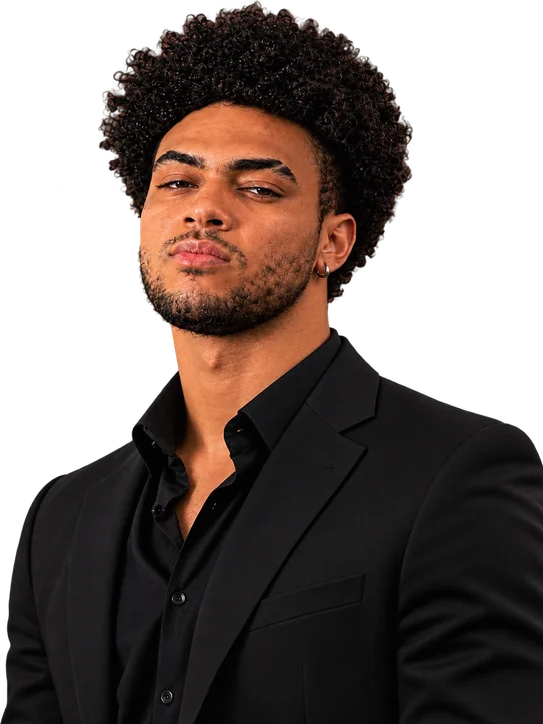
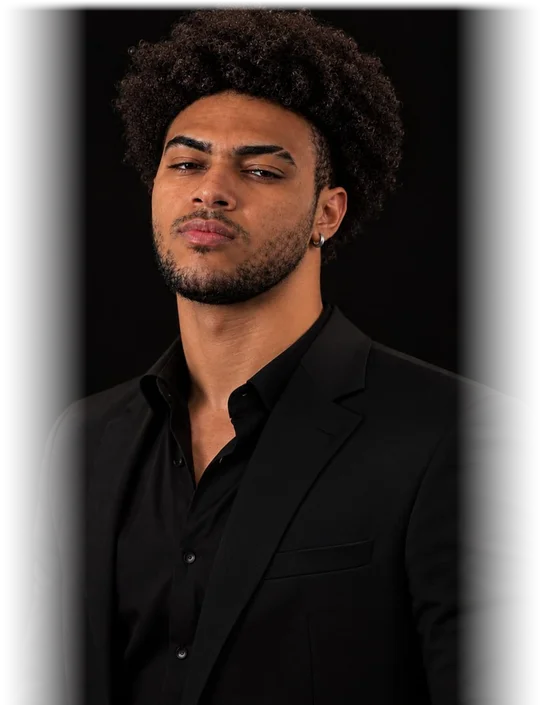
Atualiza portfólio: novas capas dos projetos, nova foto da hero e animações de fundo
Claude-Session: https://claude.ai/code/session_01DwyaFXNrkX4jACqAvLotH1

diff --git a/index.html b/index.html
@@ -93,7 +93,7 @@ button{font:inherit;color:inherit;background:none;border:0;cursor:pointer}
   -webkit-text-stroke:1.5px rgba(242,238,232,.16);user-select:none}
 .hero__giant b{font-weight:400;color:rgba(242,238,232,.05);-webkit-text-stroke:0}
 
-.hero__portrait{position:absolute;right:clamp(0px,4vw,80px);bottom:0;height:min(94vh,1000px);aspect-ratio:1086/1448;z-index:1;will-change:transform}
+.hero__portrait{position:absolute;right:clamp(0px,4vw,80px);bottom:0;height:min(94vh,1000px);aspect-ratio:1086/1411;z-index:1;will-change:transform}
 .hero__portrait img{width:100%;height:100%;object-fit:contain;object-position:bottom;display:block;
   filter:contrast(1.04) saturate(.95) drop-shadow(0 30px 80px rgba(0,0,0,.6))}
 .hero__portrait img{-webkit-mask-image:linear-gradient(#000 76%,transparent 99%);mask-image:linear-gradient(#000 76%,transparent 99%)}
@@ -230,85 +230,10 @@ button{font:inherit;color:inherit;background:none;border:0;cursor:pointer}
 .work__track,.work__progress{position:relative;z-index:1}
 .work__progress{position:absolute}
 @media (prefers-reduced-motion:reduce){.work__aurora{animation:none}}
-/* ---------- capas ---------- */
-.art{display:block}
-.art svg{position:absolute;inset:0;width:100%;height:100%}
-
-/* 01 Lumina */
-.c-lumina{background:radial-gradient(120% 90% at 70% 10%,#ffffff 0%,#eaf4fb 42%,#cfe3f1 100%)}
-.c-lumina .ring{position:absolute;width:68%;aspect-ratio:1;left:50%;top:58%;transform:translate(-50%,-50%);border-radius:50%;
-  background:conic-gradient(from 200deg,rgba(80,170,230,.0),rgba(80,170,230,.55),rgba(255,255,255,.9),rgba(80,170,230,.0));filter:blur(28px);opacity:.75}
-.c-lumina .smile{position:absolute;left:50%;top:56%;transform:translate(-50%,-50%);width:58%}
-.c-lumina .copy{position:absolute;left:8%;top:12%;right:8%;color:#0f2a3d}
-.c-lumina .brand{font-size:12px;font-weight:700;letter-spacing:.32em;text-transform:uppercase;color:#3a7fae}
-.c-lumina h4{font-family:var(--serif);font-weight:400;font-size:clamp(28px,3vw,48px);line-height:1.02;margin-top:12px;max-width:12ch}
-.c-lumina h4 em{color:#2d8fd5}
-.c-lumina .pill{position:absolute;left:8%;bottom:9%;display:flex;gap:8px}
-.c-lumina .pill span{font-size:11px;font-weight:700;padding:7px 12px;border-radius:100px;background:#fff;color:#2b6e9b;box-shadow:0 6px 20px rgba(43,110,155,.15)}
-
-/* 02 Tênis drop */
-.c-drop{background:#c8102e;color:#fff;overflow:hidden}
-.c-drop::before{content:"";position:absolute;inset:0;background:repeating-linear-gradient(-18deg,transparent 0 22px,rgba(0,0,0,.08) 22px 24px)}
-.c-drop .big{position:absolute;left:-2%;top:6%;font-family:var(--display);font-size:clamp(110px,13vw,210px);line-height:.82;letter-spacing:-.01em;text-transform:uppercase;color:transparent;-webkit-text-stroke:2px rgba(255,255,255,.9)}
-.c-drop .big b{display:block;font-weight:400;color:#fff;-webkit-text-stroke:0}
-.c-drop .speed{position:absolute;right:6%;top:50%;transform:translateY(-50%);width:44%}
-.c-drop .timer{position:absolute;left:6%;bottom:8%;display:flex;gap:8px;font-family:var(--display);font-size:28px}
-.c-drop .timer span{background:#0a0a0a;padding:8px 10px;border-radius:8px;min-width:52px;text-align:center}
-.c-drop .stock{position:absolute;right:6%;bottom:9%;font-size:11px;font-weight:800;letter-spacing:.2em;background:#fff;color:#c8102e;padding:8px 12px;border-radius:4px}
-
-/* 03 ASTRO */
-.c-astro{background:radial-gradient(90% 80% at 75% 35%,#3a2d22 0%,#1e1a16 55%,#121010 100%);color:#f5f4f0;font-family:'JetBrains Mono',ui-monospace,monospace}
-.c-astro .hud{position:absolute;inset:7%;border:1px solid rgba(255,106,40,.35)}
-.c-astro .hud::before,.c-astro .hud::after{content:"";position:absolute;width:22px;height:22px;border:2px solid #ff6a28}
-.c-astro .hud::before{left:-2px;top:-2px;border-right:0;border-bottom:0}
-.c-astro .hud::after{right:-2px;bottom:-2px;border-left:0;border-top:0}
-.c-astro .meta{position:absolute;left:11%;top:12%;font-size:11px;letter-spacing:.18em;color:#ff6a28}
-.c-astro h4{position:absolute;left:11%;bottom:14%;font-family:var(--display);font-weight:400;font-size:clamp(52px,5.6vw,92px);line-height:.86;text-transform:uppercase}
-.c-astro h4 span{display:block;font-family:'JetBrains Mono',monospace;font-size:13px;letter-spacing:.3em;color:#c2bdb4;margin-bottom:12px}
-.c-astro .temp{position:absolute;right:11%;top:12%;text-align:right;font-size:11px;letter-spacing:.14em;color:#857f75}
-.c-astro .temp b{display:block;font-family:var(--display);font-weight:400;font-size:44px;color:#f5f4f0;letter-spacing:0}
-.c-astro .scope{position:absolute;right:12%;top:34%;width:28%}
-.c-astro .swatches{position:absolute;right:11%;bottom:14%;display:flex;gap:8px}
-.c-astro .swatches i{width:12px;height:12px;border-radius:50%;border:1px solid rgba(255,255,255,.3)}
-
-/* 04 Solenne */
-.c-solenne{background:linear-gradient(160deg,#efe7dc 0%,#e2d6c5 60%,#d4c4ae 100%);color:#2c2620}
-.c-solenne .house{position:absolute;right:-4%;bottom:0;width:78%}
-.c-solenne .sun{position:absolute;right:16%;top:12%;width:18%;aspect-ratio:1;border-radius:50%;background:radial-gradient(circle,#f6c99a 0%,rgba(246,201,154,0) 70%)}
-.c-solenne .copy{position:absolute;left:8%;top:11%}
-.c-solenne .brand{font-size:12px;letter-spacing:.38em;text-transform:uppercase;font-weight:600;color:#8a755d}
-.c-solenne h4{font-family:var(--serif);font-weight:400;font-size:clamp(30px,3.2vw,52px);line-height:1;margin-top:14px;max-width:10ch}
-.c-solenne h4 em{color:#9b6b43}
-
-/* 05 Brutus */
-.c-brutus{background:radial-gradient(80% 60% at 50% 110%,#ff5a1a 0%,#a52a0c 35%,#2a0d06 70%,#0d0806 100%);color:#fff}
-.c-brutus .sparks{position:absolute;inset:0}
-.c-brutus .copy{position:absolute;inset:0;display:flex;flex-direction:column;align-items:center;justify-content:center;text-align:center}
-.c-brutus .brand{font-family:var(--display);font-size:clamp(84px,10vw,160px);line-height:.85;letter-spacing:.02em;text-transform:uppercase;text-shadow:0 10px 50px rgba(255,90,26,.5)}
-.c-brutus .brand small{display:block;font-family:var(--sans);font-size:13px;font-weight:800;letter-spacing:.6em;color:#ffb37a;text-shadow:none;margin-top:10px}
-.c-brutus h4{font-family:var(--serif);font-style:italic;font-weight:400;font-size:clamp(20px,2vw,30px);margin-top:18px;color:#ffe2cc}
-
-/* 06 Maison Aura */
-.c-aura{background:linear-gradient(170deg,#f6e7e1 0%,#edd5cb 55%,#e2c1b3 100%);color:#3d2a24}
-.c-aura .arch{position:absolute;right:9%;bottom:0;width:38%;height:78%;border-radius:999px 999px 0 0;background:linear-gradient(180deg,#c9a27e,#8f6248);overflow:hidden}
-.c-aura .arch::after{content:"";position:absolute;inset:10px 10px 0;border-radius:999px 999px 0 0;border:1px solid rgba(255,240,225,.6);border-bottom:0}
-.c-aura .arch svg{position:absolute;inset:0;height:100%;width:100%}
-.c-aura .copy{position:absolute;left:8%;top:12%}
-.c-aura .brand{font-family:var(--serif);font-size:clamp(40px,4.2vw,68px);line-height:.9}
-.c-aura .brand b{font-family:var(--sans);font-weight:700;font-size:12px;letter-spacing:.44em;display:block;color:#a0735a;margin-bottom:10px}
-.c-aura .brand em{color:#b3805f}
-.c-aura h4{margin-top:22px;font-size:14px;font-weight:600;line-height:1.5;max-width:22ch;color:#6e5348}
-.c-aura .seal{position:absolute;left:8%;bottom:10%;font-size:11px;font-weight:700;letter-spacing:.2em;text-transform:uppercase;padding:9px 14px;border:1px solid #b3805f;border-radius:100px;color:#8f6248}
-
-/* 07 Porsche */
-.c-porsche{background:linear-gradient(180deg,#1a1b1d 0%,#2a2c30 45%,#121315 100%);color:#fff}
-.c-porsche .stripe{position:absolute;left:0;right:0;top:56%;height:20%;background:#d5001c;transform:skewY(-6deg);box-shadow:0 0 80px rgba(213,0,28,.4)}
-.c-porsche .car{position:absolute;left:50%;top:60%;transform:translate(-50%,-50%) rotate(-6deg);width:74%}
-.c-porsche .copy{position:absolute;left:8%;top:10%;right:8%}
-.c-porsche .brand{font-size:12px;font-weight:700;letter-spacing:.4em;text-transform:uppercase;color:#9aa0a6}
-.c-porsche h4{font-family:var(--display);font-weight:400;font-style:italic;font-size:clamp(34px,3.6vw,58px);line-height:.95;text-transform:uppercase;margin-top:12px;transform:skewX(-6deg)}
-.c-porsche h4 span{color:#d5001c}
-
+/* ---------- capas (imagens) ---------- */
+.proj__cover{aspect-ratio:16/9;flex:none}
+.art--img{position:absolute;inset:0;width:100%;height:100%;object-fit:cover;display:block;background:#111}
+.proj{height:auto;align-self:center}
 /* ---------- responsivo da galeria ---------- */
 @media (max-width:860px){
   .work__pin{height:auto;padding:90px 0 70px}
@@ -316,24 +241,11 @@ button{font:inherit;color:inherit;background:none;border:0;cursor:pointer}
   .work__intro,.work__end{width:100%;padding:0}
   .work__end{padding:20px 0 0}
   .proj{width:100%;height:auto}
-  .proj__cover{flex:none;aspect-ratio:4/3.4}
   .proj__info{grid-template-columns:auto 1fr;padding:16px}
   .proj__open{grid-column:1 / -1;justify-content:center}
   .work__progress{display:none}
   .work__hint{display:none}
   .proj__label{top:auto;bottom:12px;right:12px}
-  .c-drop .timer{font-size:20px;gap:6px;bottom:7%}
-  .c-drop .timer span{min-width:38px;padding:6px 7px}
-  .c-drop .stock{display:none}
-  .c-astro .meta{display:none}
-  .c-astro .temp b{font-size:30px}
-  .c-astro h4{font-size:44px}
-  .c-aura .arch{width:30%;height:62%}
-  .c-aura .brand{font-size:34px}
-  .c-aura h4{max-width:17ch;font-size:13px}
-  .c-aura .seal{display:none}
-  .c-lumina h4,.c-solenne h4{font-size:26px}
-  .c-porsche h4{font-size:30px}
 }
 .no-anim .work__pin{height:auto;padding:100px 0 80px}
 .no-anim .work__track{overflow-x:auto;scroll-snap-type:x mandatory}
@@ -675,7 +587,7 @@ button{font:inherit;color:inherit;background:none;border:0;cursor:pointer}
   <div class="hero__giant" aria-hidden="true">PORT<b>FOLIO</b></div>
 
   <div class="hero__portrait">
-    <img src="img/retrato.webp" srcset="img/retrato-sm.webp 543w, img/retrato.webp 1086w" sizes="(max-width:860px) 92vw, 60vh" alt="Retrato de Wender de terno preto" width="1086" height="1448" fetchpriority="high">
+    <img src="img/retrato.webp" srcset="img/retrato-sm.webp 543w, img/retrato.webp 1086w" sizes="(max-width:860px) 92vw, 60vh" alt="Retrato de Wender de terno preto" width="1086" height="1411" fetchpriority="high">
   </div>
 
   <div class="hero__content">
@@ -740,10 +652,7 @@ button{font:inherit;color:inherit;background:none;border:0;cursor:pointer}
         <div class="work__hint"><i></i>Role para explorar</div>
       </div>
       <a class="proj" href="https://clilica-odontologica.vercel.app/" target="_blank" rel="noopener noreferrer" data-cursor="Abrir" aria-label="Abrir o site Lumina Odontologia em uma nova aba">
-        <div class="proj__cover"><div class="art c-lumina"><div class="ring"></div>
-          <svg class="smile" viewBox="0 0 300 120" style="position:absolute;inset:auto;left:50%;top:60%;width:58%;height:auto;transform:translate(-50%,-50%)"><path d="M20 30 Q150 140 280 30" fill="none" stroke="#ffffff" stroke-width="10" stroke-linecap="round"/><path d="M20 30 Q150 140 280 30" fill="none" stroke="#5db3ea" stroke-width="2" stroke-linecap="round" opacity=".7"/><g fill="#fff" stroke="#bcd9ec" stroke-width="1.2"><rect x="92" y="52" width="22" height="26" rx="8"/><rect x="117" y="58" width="22" height="28" rx="8"/><rect x="142" y="60" width="22" height="28" rx="8"/><rect x="167" y="58" width="22" height="28" rx="8"/><rect x="192" y="52" width="22" height="26" rx="8"/></g><g fill="#fff"><circle cx="250" cy="10" r="3"/><circle cx="262" cy="22" r="1.6"/><circle cx="40" cy="8" r="2"/></g></svg>
-          <div class="copy"><div class="brand">Lumina Odontologia</div><h4>Seu novo sorriso, <em>antes de fazer.</em></h4></div>
-          <div class="pill"><span>Planejamento 3D</span><span>Antes e depois</span></div></div></div>
+        <div class="proj__cover"><img class="art art--img" src="img/capa-lumina.webp" srcset="img/capa-lumina-sm.webp 720w, img/capa-lumina.webp 1280w" sizes="(max-width:860px) 92vw, 44vw" alt="Capa do site Lumina Odontologia" width="1280" height="720" loading="lazy" decoding="async"></div>
         <div class="proj__info">
           <span class="proj__num">01</span>
           <div><div class="proj__name">Lumina Odontologia</div><div class="proj__tag">Saúde · Odontologia estética</div></div>
@@ -751,9 +660,7 @@ button{font:inherit;color:inherit;background:none;border:0;cursor:pointer}
         </div>
       </a>
       <a class="proj" href="https://tenis-drop.vercel.app/" target="_blank" rel="noopener noreferrer" data-cursor="Abrir" aria-label="Abrir o site Tênis Drop em uma nova aba">
-        <div class="proj__cover"><span class="proj__label">Estudo conceitual</span><div class="art c-drop"><div class="big">Drop<b>26</b></div>
-          <svg class="speed" viewBox="0 0 300 160" style="position:absolute;inset:auto;right:5%;top:46%;width:46%;height:auto;transform:translateY(-50%)"><g stroke="#fff" stroke-linecap="round"><line x1="10" y1="40" x2="120" y2="40" stroke-width="3" opacity=".5"/><line x1="40" y1="70" x2="150" y2="70" stroke-width="5" opacity=".8"/><line x1="0" y1="100" x2="110" y2="100" stroke-width="3" opacity=".45"/></g><path d="M70 112 C70 86 96 70 124 66 L150 62 C164 60 172 50 186 48 L204 50 C212 72 238 84 268 92 C286 97 296 106 294 116 L70 120 Z" fill="#fff"/><path d="M60 118 L296 114 C298 126 292 134 280 136 L74 138 C62 138 56 130 60 118 Z" fill="#0a0a0a"/><path d="M62 120 L295 116 L295 122 L64 126 Z" fill="#f2f2f2"/><ellipse cx="102" cy="129" rx="20" ry="5" fill="#c8102e"/><path d="M118 104 C160 98 210 98 262 102" stroke="#c8102e" stroke-width="7" fill="none" stroke-linecap="round"/><g stroke="#0a0a0a" stroke-width="2.4" stroke-linecap="round"><line x1="160" y1="64" x2="172" y2="74"/><line x1="170" y1="58" x2="182" y2="68"/><line x1="180" y1="53" x2="192" y2="63"/></g><path d="M70 112 C66 98 70 86 80 80" stroke="#ddd" stroke-width="2" fill="none"/></svg>
-          <div class="timer"><span>02</span><span>14</span><span>37</span></div><div class="stock">ESTOQUE LIMITADO</div></div></div>
+        <div class="proj__cover"><span class="proj__label">Estudo conceitual</span><img class="art art--img" src="img/capa-tenis-drop.webp" srcset="img/capa-tenis-drop-sm.webp 720w, img/capa-tenis-drop.webp 1280w" sizes="(max-width:860px) 92vw, 44vw" alt="Capa do site Tênis Drop" width="1280" height="720" loading="lazy" decoding="async"></div>
         <div class="proj__info">
           <span class="proj__num">02</span>
           <div><div class="proj__name">Tênis Drop</div><div class="proj__tag">E-commerce · Lançamento limitado</div></div>
@@ -761,12 +668,7 @@ button{font:inherit;color:inherit;background:none;border:0;cursor:pointer}
         </div>
       </a>
       <a class="proj" href="https://jaquetas-drop-befw.vercel.app/" target="_blank" rel="noopener noreferrer" data-cursor="Abrir" aria-label="Abrir o site ASTRO Winter Armor II em uma nova aba">
-        <div class="proj__cover"><div class="art c-astro"><div class="hud"></div>
-          <div class="meta">// DROP 002 · AEROSPACE THERMAL</div>
-          <div class="temp">TEMP. EXT.<b>-40°C</b></div>
-          <div class="swatches"><i style="background:#ff6a28"></i><i style="background:#f59e0b"></i><i style="background:#38bdf8"></i><i style="background:#22c55e"></i><i style="background:#f43f5e"></i></div>
-          <svg class="scope" viewBox="0 0 120 120" style="position:absolute;inset:auto;right:11%;top:30%;width:26%;height:auto"><circle cx="60" cy="60" r="52" fill="none" stroke="#ff6a28" stroke-opacity=".5"/><circle cx="60" cy="60" r="30" fill="none" stroke="#ff6a28" stroke-dasharray="4 6"/><line x1="60" y1="0" x2="60" y2="120" stroke="#ff6a28" stroke-opacity=".4"/><line x1="0" y1="60" x2="120" y2="60" stroke="#ff6a28" stroke-opacity=".4"/><circle cx="60" cy="60" r="4" fill="#ff6a28"/></svg>
-          <h4><span>ASTRO //</span>Winter<br>Armor II</h4></div></div>
+        <div class="proj__cover"><img class="art art--img" src="img/capa-jaquetas.webp" srcset="img/capa-jaquetas-sm.webp 720w, img/capa-jaquetas.webp 1280w" sizes="(max-width:860px) 92vw, 44vw" alt="Capa do site ASTRO Winter Armor II" width="1280" height="720" loading="lazy" decoding="async"></div>
         <div class="proj__info">
           <span class="proj__num">03</span>
           <div><div class="proj__name">ASTRO Winter Armor II</div><div class="proj__tag">Moda · Drop de jaquetas</div></div>
@@ -774,9 +676,7 @@ button{font:inherit;color:inherit;background:none;border:0;cursor:pointer}
         </div>
       </a>
       <a class="proj" href="https://arquitetura-peach.vercel.app/" target="_blank" rel="noopener noreferrer" data-cursor="Abrir" aria-label="Abrir o site Solenne Arquitetura em uma nova aba">
-        <div class="proj__cover"><div class="art c-solenne"><div class="sun"></div>
-          <svg class="house" viewBox="0 0 400 260" style="position:absolute;inset:auto;right:-3%;bottom:0;width:80%;height:auto" fill="none" stroke="#3a3027" stroke-width="1.4"><path d="M20 250 H390"/><path d="M60 250 V120 H250 V250"/><path d="M40 120 H280" stroke-width="3"/><path d="M250 250 V70 H370 V250"/><path d="M235 70 H385" stroke-width="3"/><rect x="80" y="140" width="70" height="110" fill="#f7efe4" fill-opacity=".55"/><rect x="160" y="140" width="70" height="60" fill="#f7efe4" fill-opacity=".55"/><rect x="270" y="90" width="80" height="70" fill="#f6c99a" fill-opacity=".35"/><path d="M270 180 H350 V250"/><path d="M115 140 V250 M195 140 V200"/><path d="M0 250 Q20 220 30 250 M380 250 Q395 215 400 250" stroke="#7d8a5a"/></svg>
-          <div class="copy"><div class="brand">Solenne</div><h4>A casa que você <em>sempre imaginou.</em></h4></div></div></div>
+        <div class="proj__cover"><img class="art art--img" src="img/capa-solenne.webp" srcset="img/capa-solenne-sm.webp 720w, img/capa-solenne.webp 1280w" sizes="(max-width:860px) 92vw, 44vw" alt="Capa do site Solenne Arquitetura" width="1280" height="720" loading="lazy" decoding="async"></div>
         <div class="proj__info">
           <span class="proj__num">04</span>
           <div><div class="proj__name">Solenne Arquitetura</div><div class="proj__tag">Arquitetura & interiores de luxo</div></div>
@@ -784,8 +684,7 @@ button{font:inherit;color:inherit;background:none;border:0;cursor:pointer}
         </div>
       </a>
       <a class="proj" href="https://brutus-burguer-eight.vercel.app/" target="_blank" rel="noopener noreferrer" data-cursor="Abrir" aria-label="Abrir o site Brutus Burger em uma nova aba">
-        <div class="proj__cover"><div class="art c-brutus"><svg class="sparks" viewBox="0 0 400 240" preserveAspectRatio="none"><circle cx="40" cy="200" r="1.8" fill="#ffb066" opacity="0.8"/><circle cx="80" cy="150" r="1.2" fill="#ffb066" opacity="0.6"/><circle cx="330" cy="180" r="2" fill="#ffb066" opacity="0.9"/><circle cx="360" cy="120" r="1.2" fill="#ffb066" opacity="0.5"/><circle cx="300" cy="60" r="1" fill="#ffb066" opacity="0.4"/><circle cx="60" cy="80" r="1" fill="#ffb066" opacity="0.4"/><circle cx="200" cy="210" r="1.6" fill="#ffb066" opacity="0.7"/><circle cx="250" cy="140" r="1" fill="#ffb066" opacity="0.5"/><circle cx="120" cy="40" r="1.4" fill="#ffb066" opacity="0.5"/><circle cx="370" cy="220" r="1.4" fill="#ffb066" opacity="0.8"/><circle cx="20" cy="130" r="1" fill="#ffb066" opacity="0.5"/><circle cx="160" cy="100" r="0.9" fill="#ffb066" opacity="0.4"/></svg>
-          <div class="copy"><div class="brand">Brutus<small>BURGER · NA BRASA</small></div><h4>Cada mordida merece ser inesquecível.</h4></div></div></div>
+        <div class="proj__cover"><img class="art art--img" src="img/capa-brutus.webp" srcset="img/capa-brutus-sm.webp 720w, img/capa-brutus.webp 1280w" sizes="(max-width:860px) 92vw, 44vw" alt="Capa do site Brutus Burger" width="1280" height="720" loading="lazy" decoding="async"></div>
         <div class="proj__info">
           <span class="proj__num">05</span>
           <div><div class="proj__name">Brutus Burger</div><div class="proj__tag">Hamburgueria artesanal</div></div>
@@ -793,9 +692,7 @@ button{font:inherit;color:inherit;background:none;border:0;cursor:pointer}
         </div>
       </a>
       <a class="proj" href="https://maison-aura-eosin.vercel.app/" target="_blank" rel="noopener noreferrer" data-cursor="Abrir" aria-label="Abrir o site Maison Aura em uma nova aba">
-        <div class="proj__cover"><div class="art c-aura"><div class="arch"><svg viewBox="0 0 200 300" preserveAspectRatio="xMidYMid slice"><path d="M40 0 C80 60 10 120 60 180 C100 240 30 280 70 320" stroke="#f3dcc6" stroke-width="3" fill="none" opacity="0.55" stroke-linecap="round"/><path d="M70 0 C110 60 40 120 90 180 C130 240 60 280 100 320" stroke="#fff3e6" stroke-width="1.5" fill="none" opacity="0.6" stroke-linecap="round"/><path d="M100 0 C140 60 70 120 120 180 C160 240 90 280 130 320" stroke="#e8c39c" stroke-width="4" fill="none" opacity="0.5" stroke-linecap="round"/><path d="M130 0 C170 60 100 120 150 180 C190 240 120 280 160 320" stroke="#fff3e6" stroke-width="1.5" fill="none" opacity="0.55" stroke-linecap="round"/><path d="M160 0 C200 60 130 120 180 180 C220 240 150 280 190 320" stroke="#f3dcc6" stroke-width="3" fill="none" opacity="0.45" stroke-linecap="round"/><circle cx="100" cy="70" r="16" fill="none" stroke="#fff3e6" stroke-width="1.2" opacity=".7"/></svg></div>
-          <div class="copy"><div class="brand"><b>Atelier capilar</b>Maison <em>Aura</em></div><h4>Seu cabelo do jeito que você imaginou. Sem surpresas.</h4></div>
-          <div class="seal">Agenda limitada</div></div></div>
+        <div class="proj__cover"><img class="art art--img" src="img/capa-maison-aura.webp" srcset="img/capa-maison-aura-sm.webp 720w, img/capa-maison-aura.webp 1280w" sizes="(max-width:860px) 92vw, 44vw" alt="Capa do site Maison Aura" width="1280" height="720" loading="lazy" decoding="async"></div>
         <div class="proj__info">
           <span class="proj__num">06</span>
           <div><div class="proj__name">Maison Aura</div><div class="proj__tag">Salão de beleza & atelier capilar</div></div>
@@ -803,9 +700,7 @@ button{font:inherit;color:inherit;background:none;border:0;cursor:pointer}
         </div>
       </a>
       <a class="proj" href="https://bhporsches.vercel.app" target="_blank" rel="noopener noreferrer" data-cursor="Abrir" aria-label="Abrir o site Porsche Center BH em uma nova aba">
-        <div class="proj__cover"><span class="proj__label">Estudo conceitual</span><div class="art c-porsche"><div class="stripe"></div>
-          <svg class="car" viewBox="0 0 400 170" style="position:absolute;inset:auto;left:50%;top:62%;width:72%;height:auto;transform:translate(-50%,-50%) rotate(-6deg)"><ellipse cx="200" cy="150" rx="185" ry="14" fill="#000" opacity=".45"/><path d="M30 120 C40 90 90 74 150 66 C185 44 235 40 270 54 C310 66 350 80 372 100 C384 112 384 124 376 130 L40 132 C30 130 26 126 30 120 Z" fill="#c9cdd2"/><path d="M160 66 C190 50 232 48 262 60 L250 80 L170 82 Z" fill="#23262a"/><path d="M30 120 L376 128" stroke="#fff" stroke-opacity=".5"/><circle cx="105" cy="130" r="24" fill="#16181b"/><circle cx="105" cy="130" r="12" fill="#8c9197"/><circle cx="305" cy="130" r="24" fill="#16181b"/><circle cx="305" cy="130" r="12" fill="#8c9197"/><path d="M350 98 L372 104" stroke="#d5001c" stroke-width="4" stroke-linecap="round"/></svg>
-          <div class="copy"><div class="brand">Porsche Center · BH</div><h4>Seu Porsche não se compra. <span>Se cria.</span></h4></div></div></div>
+        <div class="proj__cover"><span class="proj__label">Estudo conceitual</span><img class="art art--img" src="img/capa-porsche.webp" srcset="img/capa-porsche-sm.webp 720w, img/capa-porsche.webp 1280w" sizes="(max-width:860px) 92vw, 44vw" alt="Capa do site Porsche Center BH" width="1280" height="720" loading="lazy" decoding="async"></div>
         <div class="proj__info">
           <span class="proj__num">07</span>
           <div><div class="proj__name">Porsche Center BH</div><div class="proj__tag">Automotivo de luxo</div></div>
